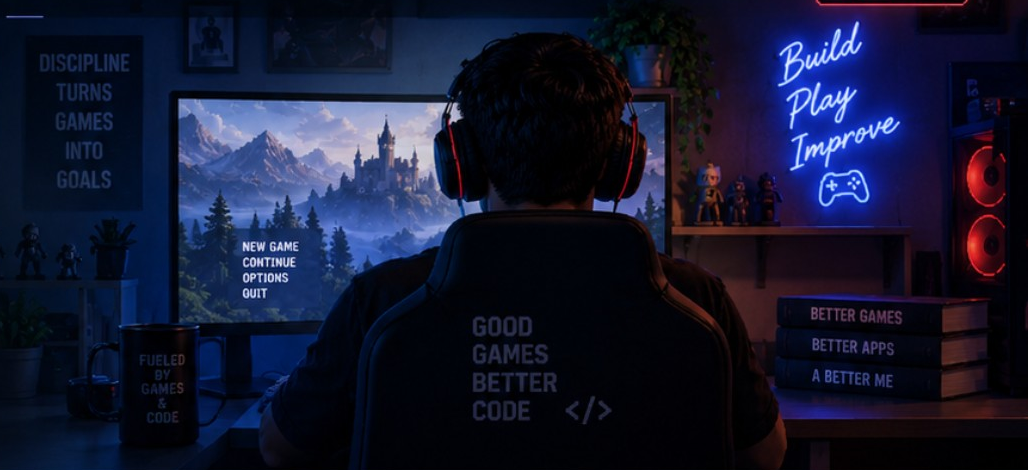
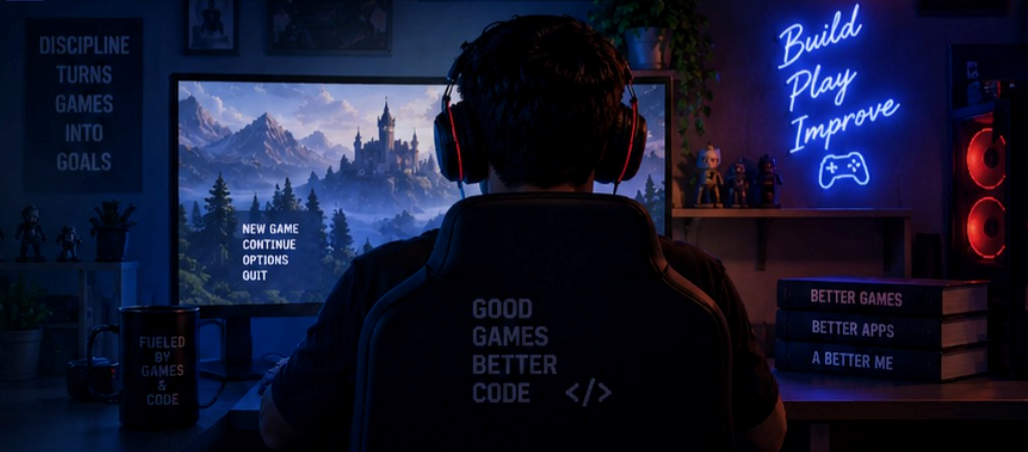
style: update Navbar styles for improved aesthetics and responsiveness

diff --git a/client/src/components/Navbar.css b/client/src/components/Navbar.css
@@ -13,15 +13,21 @@ body {
   left: 0;
   width: 100%;
   z-index: 1000;
-  background: rgba(10, 14, 26, 0.85);
-  backdrop-filter: blur(12px);
-  -webkit-backdrop-filter: blur(12px);
-  border-bottom: 1px solid rgba(255, 255, 255, 0.06);
-  transition: background 0.3s ease;
+  background: transparent;
+  backdrop-filter: none;
+  -webkit-backdrop-filter: none;
+  border-bottom: 1px solid transparent;
+  transition: background 0.35s ease, border-color 0.35s ease, backdrop-filter 0.35s ease, -webkit-backdrop-filter 0.35s ease, box-shadow 0.35s ease;
 }
 
-.navbar-scrolled {
-  background: rgba(10, 14, 26, 0.98);
+.navbar.navbar-scrolled,
+.navbar.navbar-solid,
+.navbar.navbar-open {
+  background: rgba(10, 14, 26, 0.85);
+  backdrop-filter: blur(16px);
+  -webkit-backdrop-filter: blur(16px);
+  border-bottom: 1px solid rgba(255, 255, 255, 0.08);
+  box-shadow: 0 4px 20px rgba(0, 0, 0, 0.35);
 }
 
 .navbar-container {
@@ -69,14 +75,16 @@ body {
   font-weight: 800;
   color: white;
   letter-spacing: 1.5px;
+  text-shadow: 0 2px 6px rgba(0, 0, 0, 0.7);
 }
 
 .logo-subtitle {
   font-family: 'Inter', sans-serif;
   font-size: 0.65rem;
-  color: #64748b;
+  color: #94a3b8;
   letter-spacing: 2px;
   margin-top: 2px;
+  text-shadow: 0 1px 4px rgba(0, 0, 0, 0.7);
 }
 
 .nav-center {
@@ -93,11 +101,12 @@ body {
 
 .nav-links li a {
   text-decoration: none;
-  color: #94a3b8;
+  color: #cbd5e1;
   font-size: 0.9rem;
   font-weight: 500;
   transition: color 0.3s ease;
   position: relative;
+  text-shadow: 0 1px 4px rgba(0, 0, 0, 0.7);
 }
 
 .nav-links li a::after {

diff --git a/client/src/components/Navbar.jsx b/client/src/components/Navbar.jsx
@@ -52,7 +52,7 @@ const Navbar = ({ currentView = 'home', onNavigate }) => {
   };
 
   return (
-    <header className={`navbar ${scrolled ? 'navbar-scrolled' : ''}`}>
+    <header className={`navbar ${scrolled ? 'navbar-scrolled' : ''} ${currentView !== 'home' ? 'navbar-solid' : ''} ${isMobileMenuOpen ? 'navbar-open' : ''}`}>
       <div className="navbar-container">
         <a href="#home" onClick={handleLogoClick} className="logo-area">
           <div className="logo-icon-wrapper">
